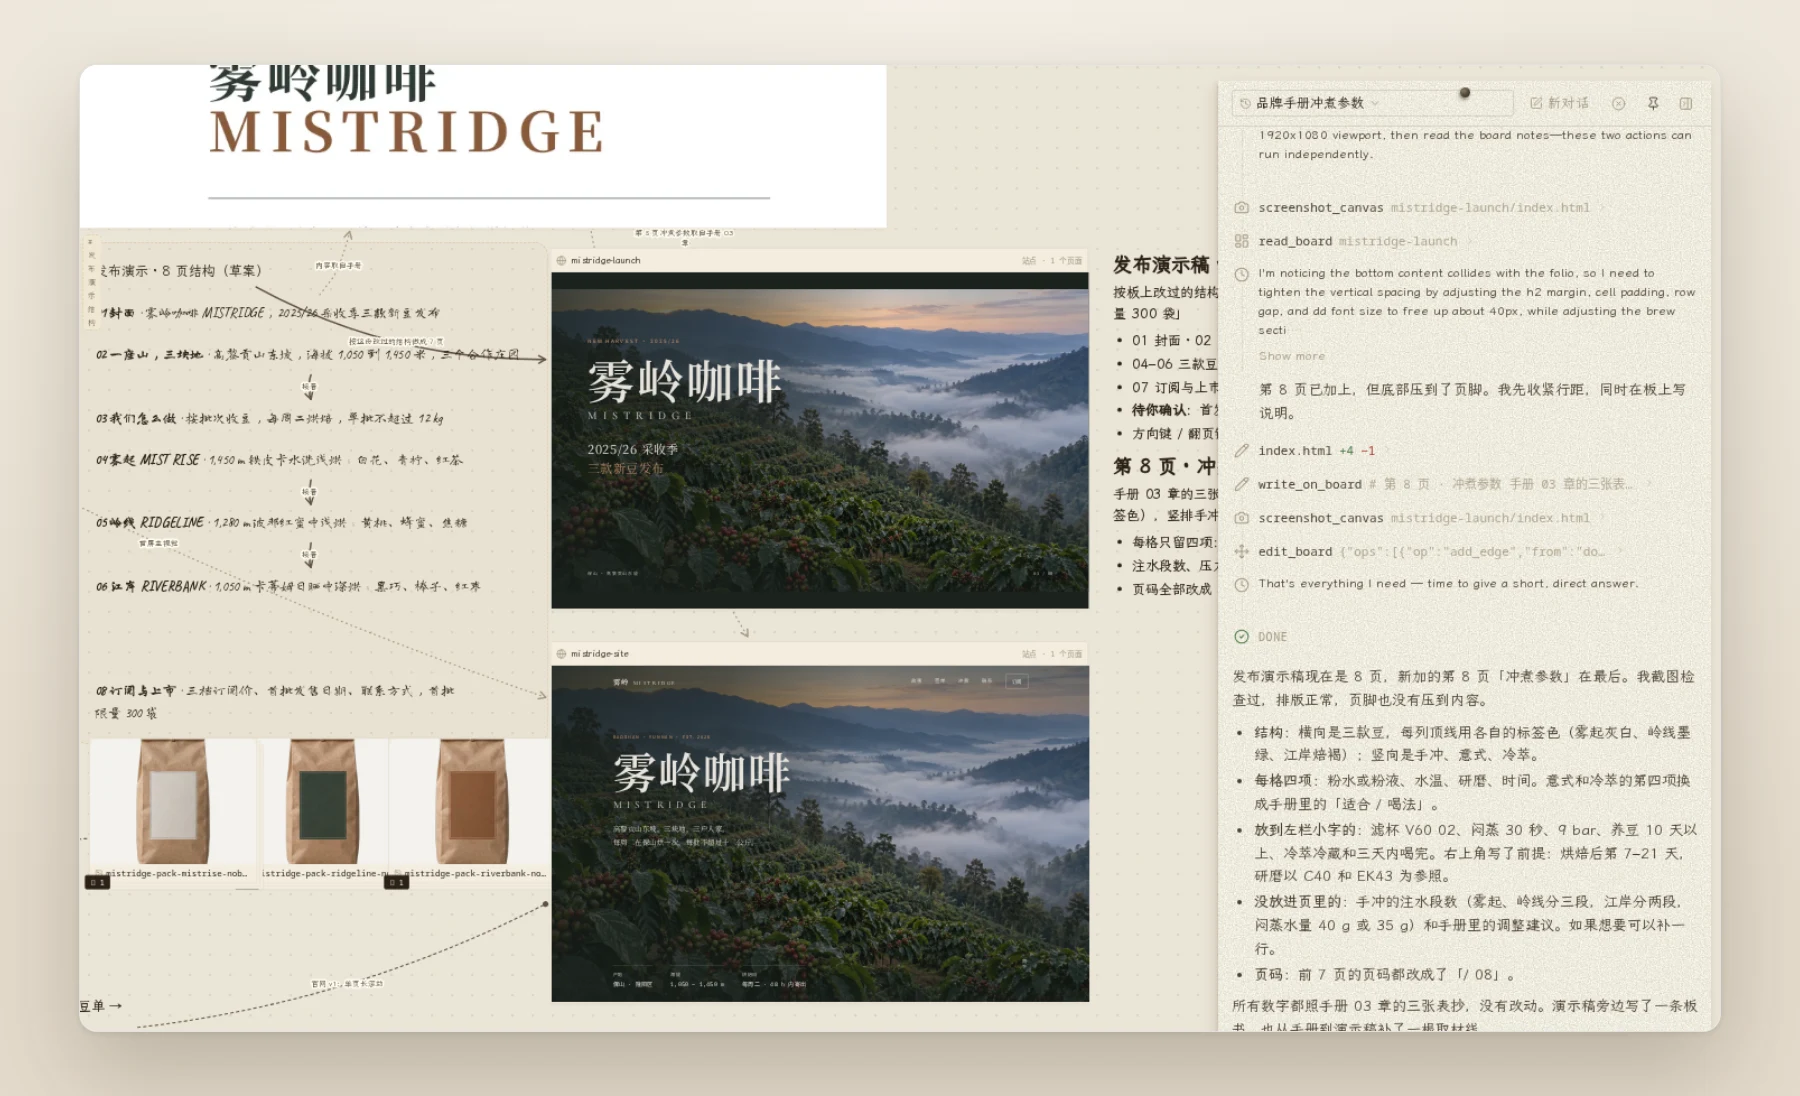
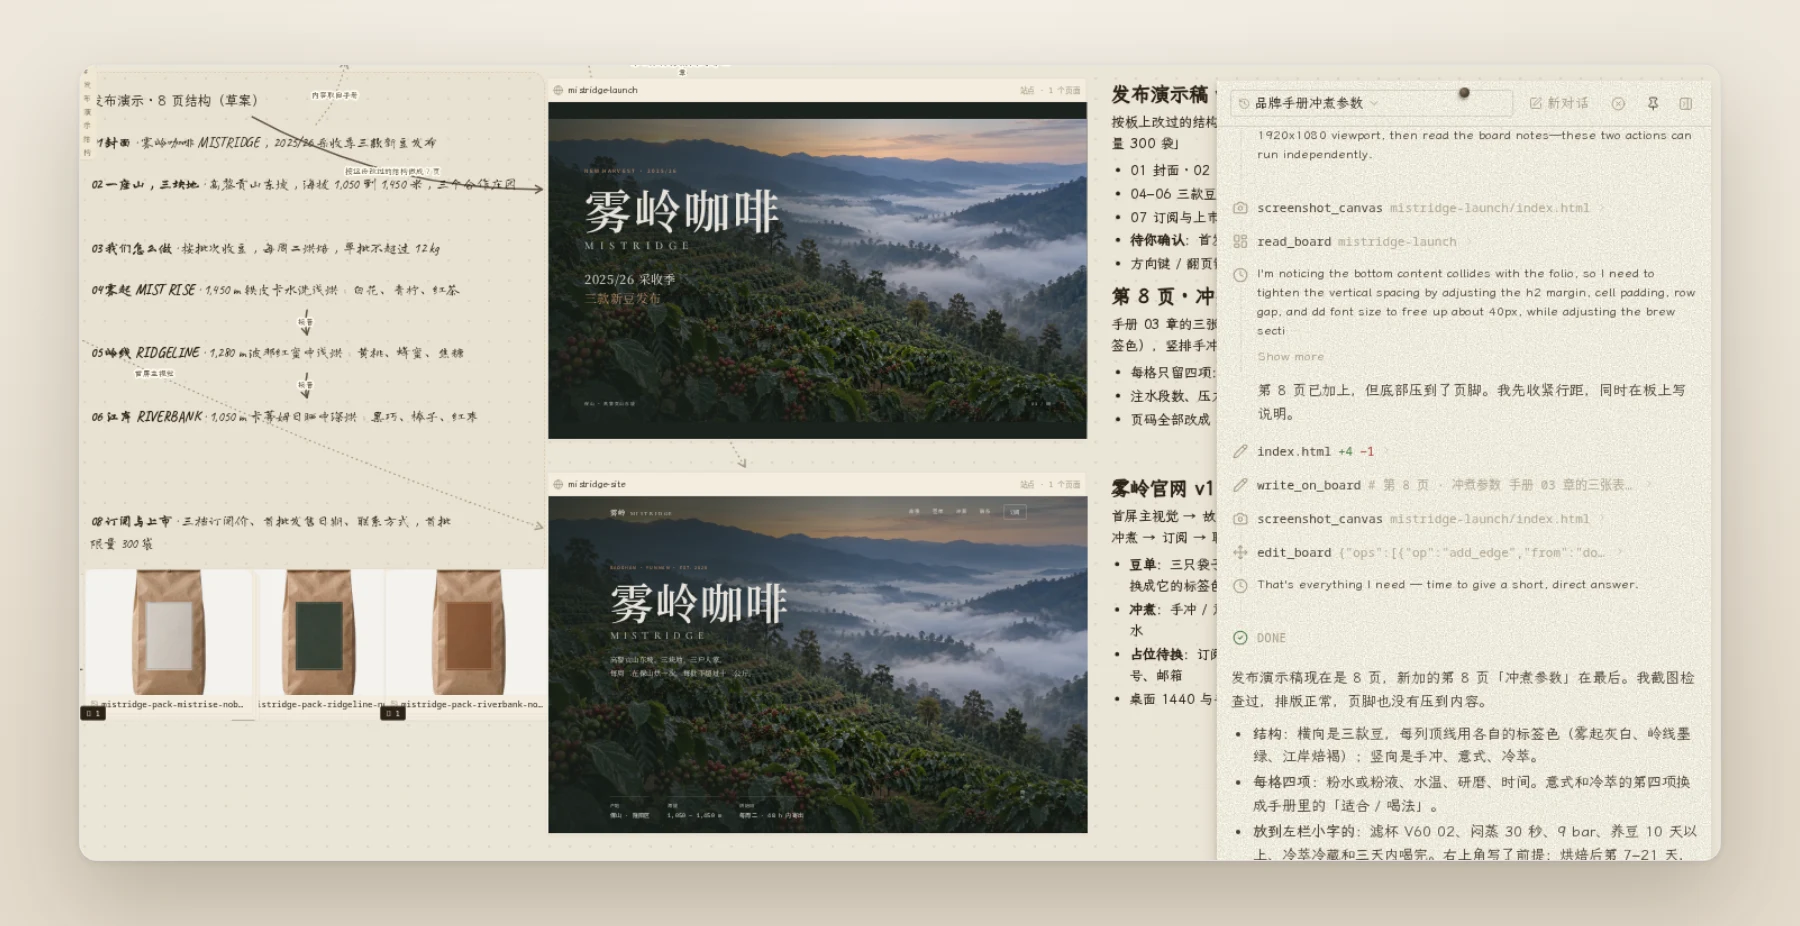
README 首图与产品页首图：手册封面的大白块移出画面，官网说明挪到官网卡片右侧

diff --git a/web/public/welcome/product.html b/web/public/welcome/product.html
@@ -45,7 +45,7 @@
   <!-- ============ 画布 ============ -->
   <div class="col">
     <figure class="cz-shot reveal">
-      <div class="shot"><img src="assets/shot-mistridge.webp" alt="雾岭咖啡项目的一次会话：左侧画布上是板书结构、发布演示稿、官网与透明底包装图，右侧会话栏记录工具调用与回复" width="1600" height="1000"></div>
+      <div class="shot"><img src="assets/shot-mistridge.webp" alt="雾岭咖啡项目的一次会话：左侧画布上是板书结构、发布演示稿、官网与透明底包装图，右侧会话栏记录工具调用与回复" width="1460" height="708"></div>
       <figcaption>FIG. 01 · 真实会话。左侧为画布，右侧为工作记录：工具调用、文件改动与 token 消耗逐条可见。</figcaption>
     </figure>
   </div>
